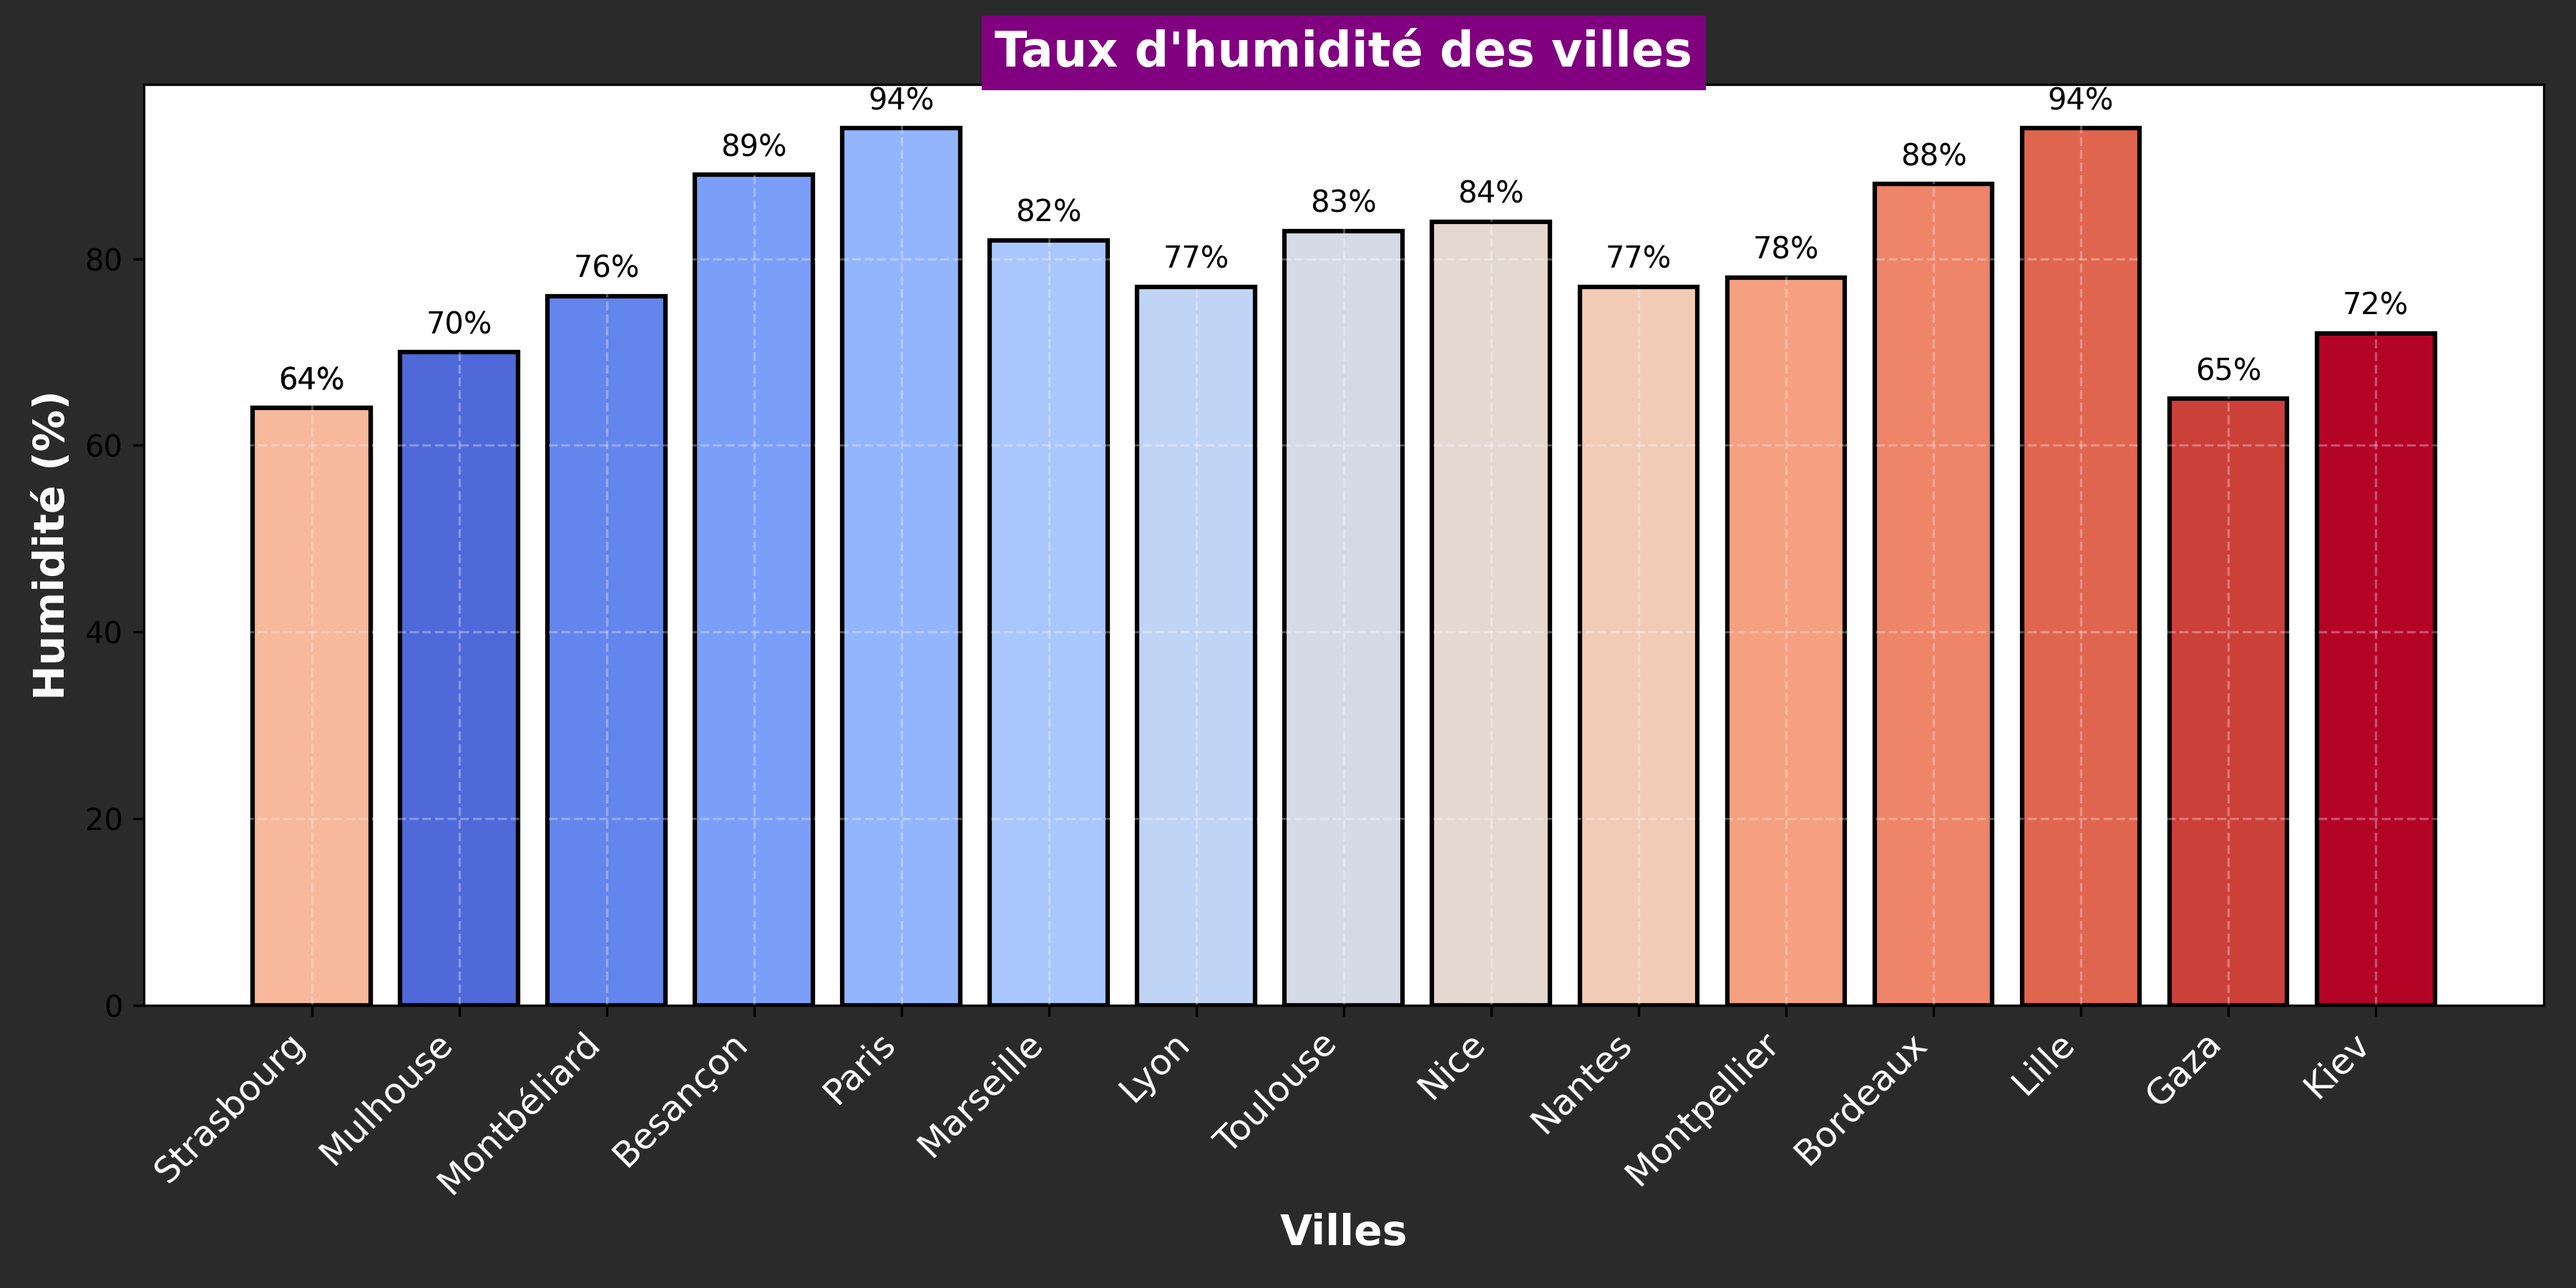
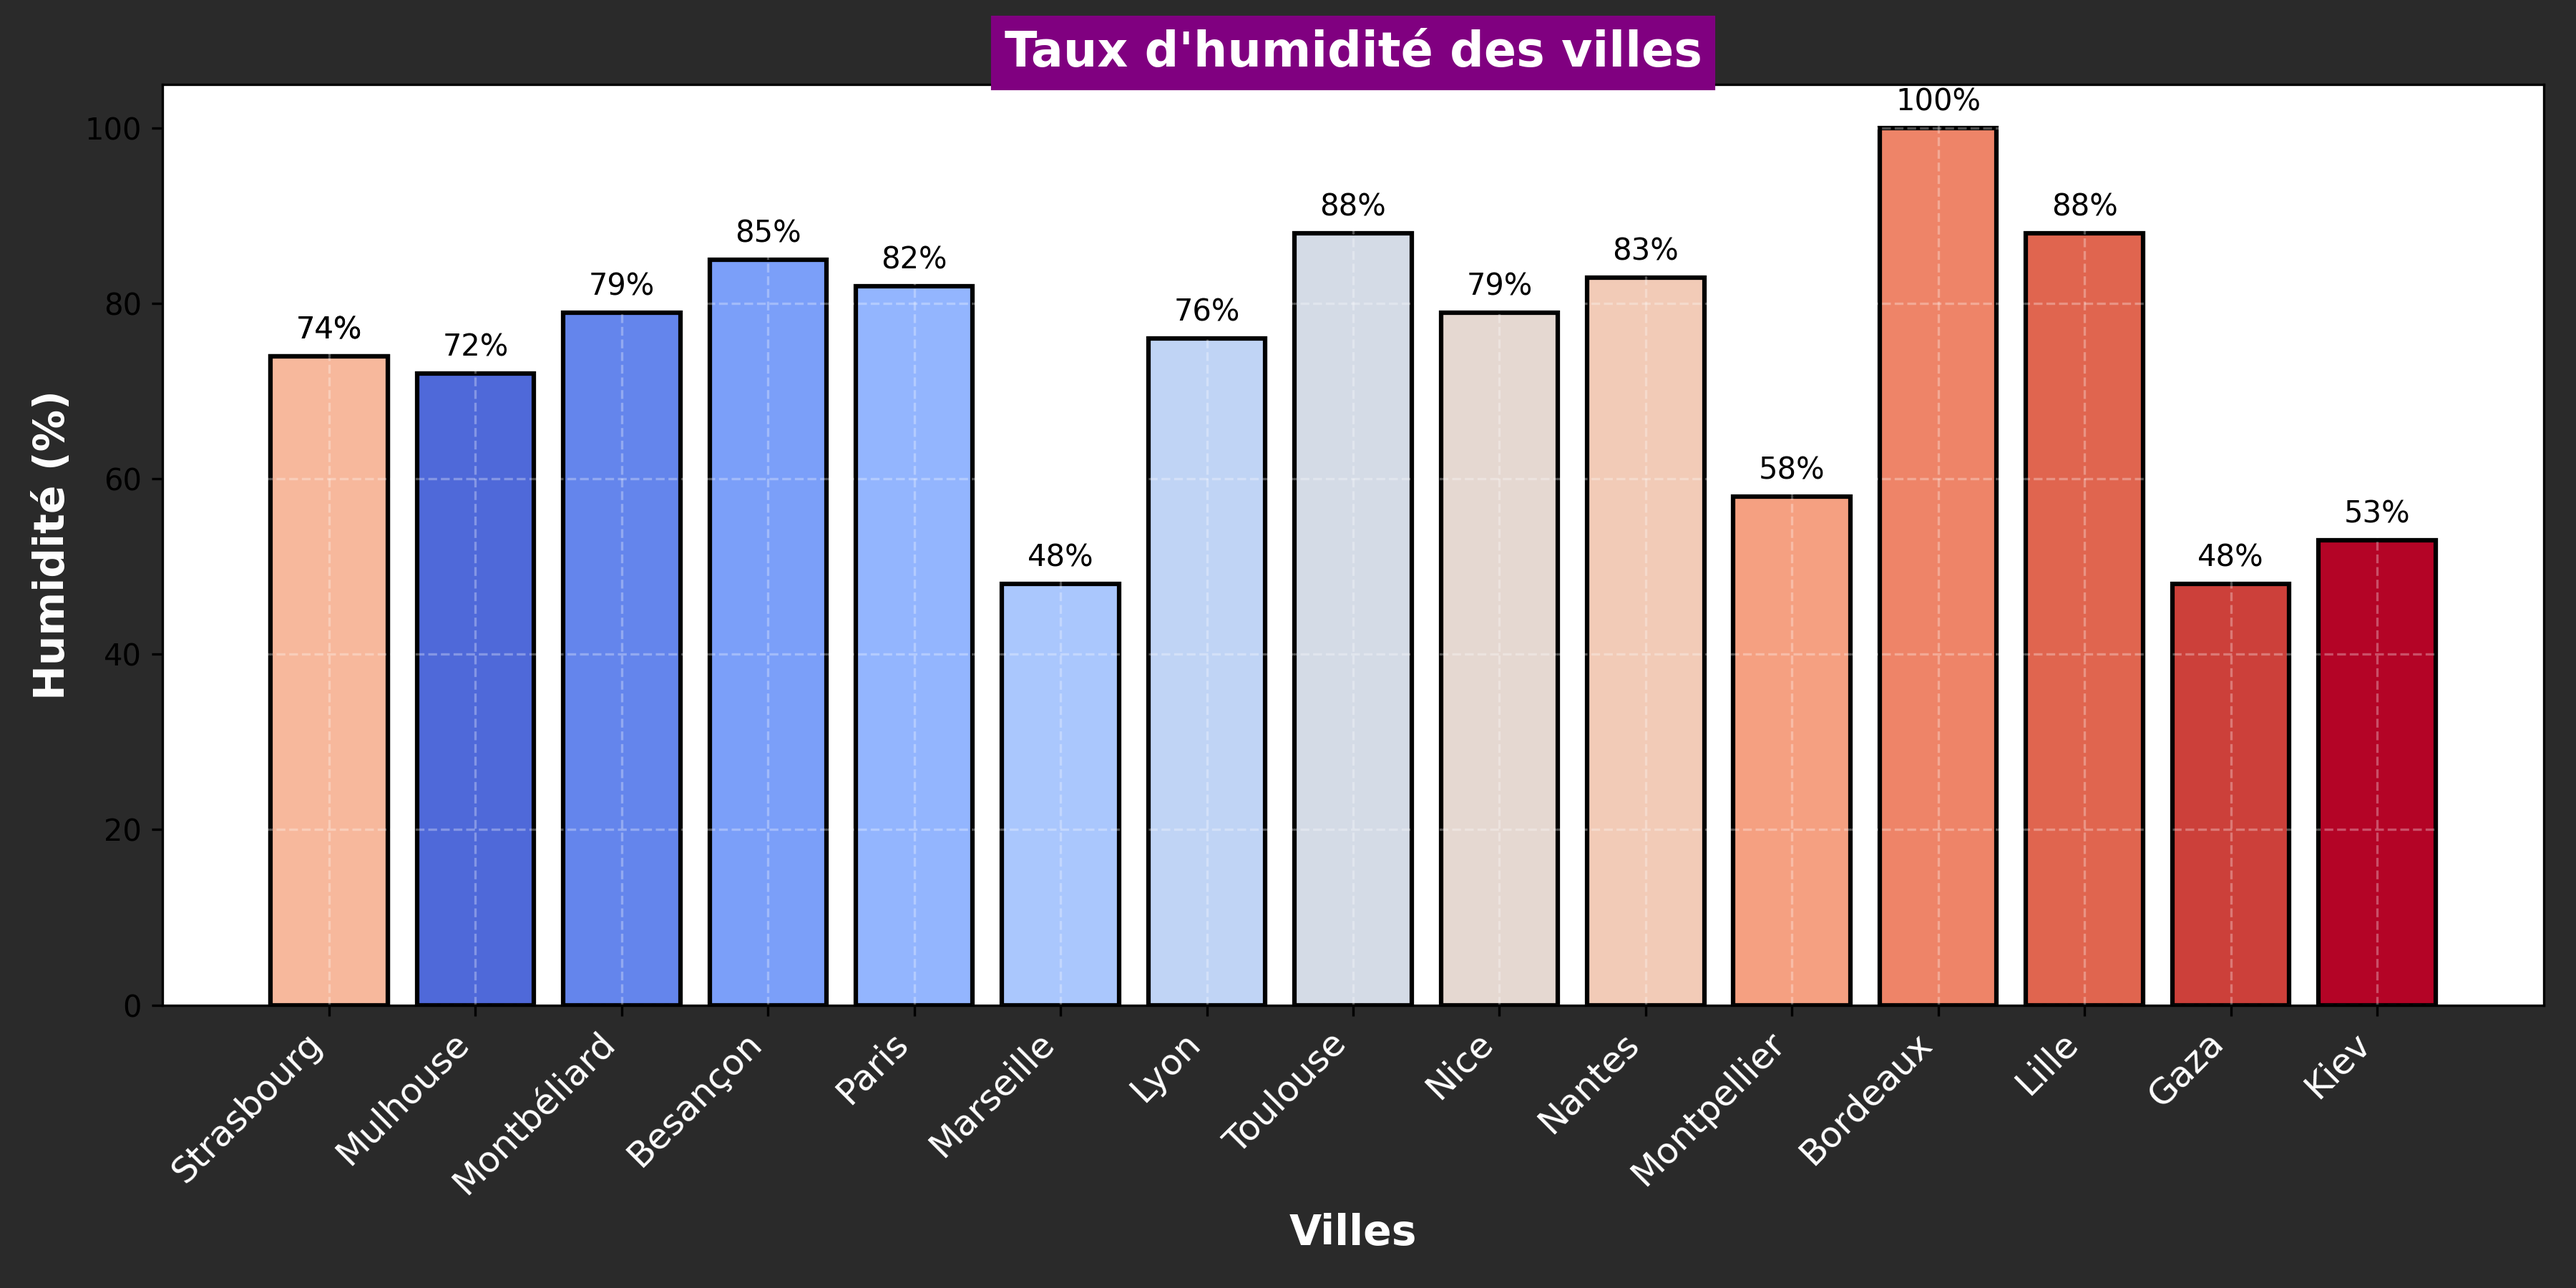
Mise à jour de la météo et ajout du graphique d'humidité

diff --git a/README.md b/README.md
@@ -24,103 +24,103 @@ Ce repo contient plusieurs workflows GitHub Actions :
 ## Météo actuelle :
 ## Météo des grandes villes + Gaza et Kiev 🌍
 
-🕒 Mise à jour : 26/06/2025 08:18:51
+🕒 Mise à jour : 27/06/2025 08:19:11
 
-### 🌍 Strasbourg ☀
-**Conditions :** ciel dégagé
-**Température :** 23.02°C
-**Humidité :** 64%
-**Vent :** 3.6 m/s
+### 🌍 Strasbourg 🌥
+**Conditions :** nuageux
+**Température :** 22.34°C
+**Humidité :** 74%
+**Vent :** 2.29 m/s
 
 ### 🌍 Mulhouse ☀
 **Conditions :** ciel dégagé
-**Température :** 22.23°C
-**Humidité :** 70%
+**Température :** 21.29°C
+**Humidité :** 72%
 **Vent :** 1.79 m/s
 
-### 🌍 Montbéliard 🌧
-**Conditions :** légère pluie
+### 🌍 Montbéliard 🌥
+**Conditions :** nuageux
 **Température :** 21.66°C
-**Humidité :** 76%
-**Vent :** 1.7 m/s
+**Humidité :** 79%
+**Vent :** 1.09 m/s
 
 ### 🌍 Besançon 🌥
-**Conditions :** nuageux
+**Conditions :** partiellement nuageux
 **Température :** 18.51°C
-**Humidité :** 89%
-**Vent :** 1.22 m/s
+**Humidité :** 85%
+**Vent :** 0.44 m/s
 
-### 🌍 Paris 🌧
-**Conditions :** pluie modérée
-**Température :** 19.58°C
-**Humidité :** 94%
-**Vent :** 4.63 m/s
-
-### 🌍 Marseille 🌧
-**Conditions :** légère pluie
-**Température :** 23.6°C
+### 🌍 Paris ☀
+**Conditions :** ciel dégagé
+**Température :** 20.28°C
 **Humidité :** 82%
-**Vent :** 1.34 m/s
+**Vent :** 4.12 m/s
+
+### 🌍 Marseille ☀
+**Conditions :** ciel dégagé
+**Température :** 23.62°C
+**Humidité :** 48%
+**Vent :** 2.76 m/s
 
 ### 🌍 Lyon 🌥
 **Conditions :** nuageux
-**Température :** 19.07°C
-**Humidité :** 77%
-**Vent :** 1.55 m/s
+**Température :** 18.53°C
+**Humidité :** 76%
+**Vent :** 1.37 m/s
 
 ### 🌍 Toulouse 🌥
-**Conditions :** nuageux
-**Température :** 19.99°C
-**Humidité :** 83%
-**Vent :** 3.6 m/s
-
-### 🌍 Nice 🌥
 **Conditions :** peu nuageux
-**Température :** 15.35°C
-**Humidité :** 84%
-**Vent :** 0.22 m/s
+**Température :** 18.99°C
+**Humidité :** 88%
+**Vent :** 1.54 m/s
+
+### 🌍 Nice ☀
+**Conditions :** ciel dégagé
+**Température :** 19.16°C
+**Humidité :** 79%
+**Vent :** 0.87 m/s
 
 ### 🌍 Nantes 🌥
-**Conditions :** peu nuageux
-**Température :** 18.96°C
-**Humidité :** 77%
-**Vent :** 3.09 m/s
+**Conditions :** couvert
+**Température :** 19.96°C
+**Humidité :** 83%
+**Vent :** 1.54 m/s
 
-### 🌍 Strasbourg ☀
-**Conditions :** ciel dégagé
-**Température :** 23.02°C
-**Humidité :** 64%
-**Vent :** 3.6 m/s
-
-### 🌍 Montpellier 🌥
+### 🌍 Strasbourg 🌥
 **Conditions :** nuageux
-**Température :** 21.71°C
-**Humidité :** 78%
+**Température :** 22.34°C
+**Humidité :** 74%
+**Vent :** 2.29 m/s
+
+### 🌍 Montpellier ☀
+**Conditions :** ciel dégagé
+**Température :** 26.39°C
+**Humidité :** 58%
 **Vent :** 5.14 m/s
 
-### 🌍 Bordeaux 🌥
-**Conditions :** nuageux
-**Température :** 20.15°C
-**Humidité :** 88%
-**Vent :** 3.09 m/s
+### 🌍 Bordeaux ☀
+**Conditions :** ciel dégagé
+**Température :** 18.15°C
+**Humidité :** 100%
+**Vent :** 0.51 m/s
 
 ### 🌍 Lille 🌥
-**Conditions :** couvert
-**Température :** 18.12°C
-**Humidité :** 94%
-**Vent :** 5.14 m/s
+**Conditions :** nuageux
+**Température :** 15.13°C
+**Humidité :** 88%
+**Vent :** 2.57 m/s
 
 ### 🌍 Gaza ☀
 **Conditions :** ciel dégagé
-**Température :** 26.9°C
-**Humidité :** 65%
-**Vent :** 2.33 m/s
+**Température :** 28.6°C
+**Humidité :** 48%
+**Vent :** 1.32 m/s
 
 ### 🌍 Kiev 🌥
 **Conditions :** partiellement nuageux
-**Température :** 17.75°C
-**Humidité :** 72%
-**Vent :** 6.73 m/s
+**Température :** 20.34°C
+**Humidité :** 53%
+**Vent :** 2.37 m/s
 
 <p align='center'><img src='https://raw.githubusercontent.com/khoa083/khoa/main/Khoa_ne/img/Rainbow.gif' width='100%' style='border-radius: 5px; border: 3px solid #39FF14; box-shadow: 0 0 10px #39FF14, 0 0 20px #39FF14;' /></p>
 
